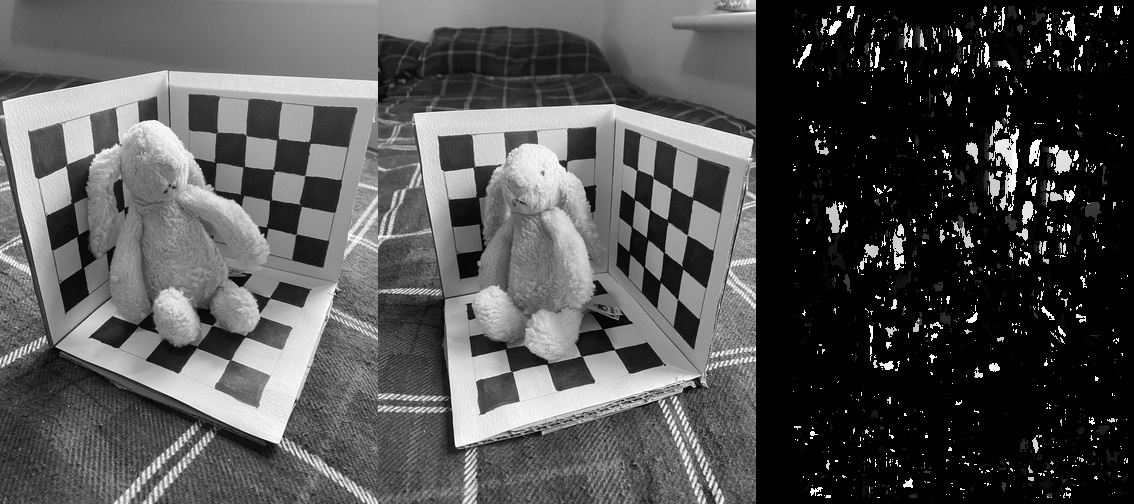
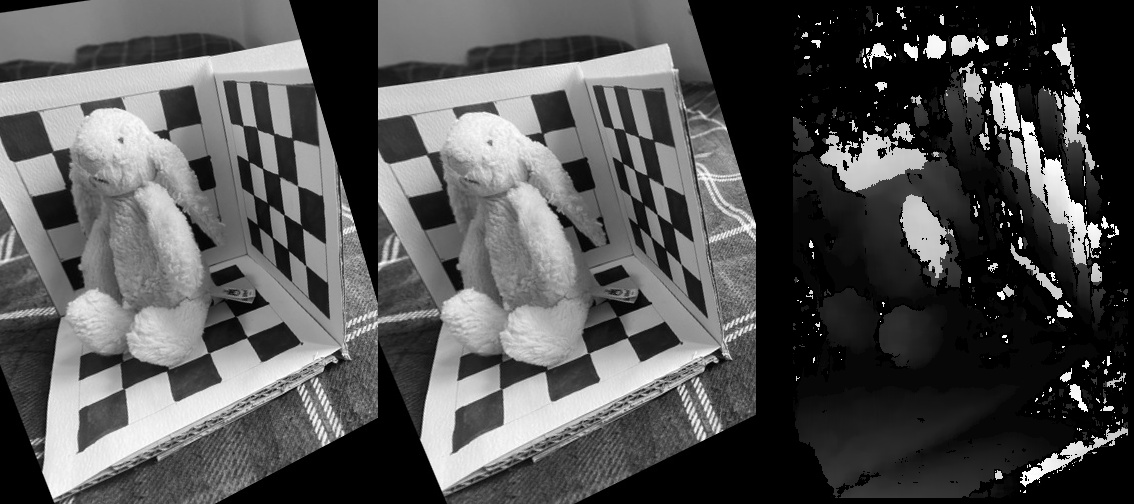
depth maps update

diff --git a/task_5/stereo.py b/task_5/stereo.py
@@ -4,8 +4,8 @@ import matplotlib.pyplot as plt
 
 # Load the left and right images 
 # in gray scale 
-img1_name = '../images/FD_02.jpg'
-img2_name = '../images/FD_05.jpg'
+img1_name = '../images/FD_01.jpg'
+img2_name = '../images/FD_02.jpg'
 
 img1 = cv2.imread(img1_name, 0) 
 img2 = cv2.imread(img2_name, 0)
@@ -51,8 +51,8 @@ _, H1, H2 = cv2.stereoRectifyUncalibrated(
 # Adapted from: https://stackoverflow.com/a/62607343
 img1_rectified = cv2.warpPerspective(img1, H1, (w1, h1))
 img2_rectified = cv2.warpPerspective(img2, H2, (w2, h2))
-cv2.imwrite("rectified_1.png", img1_rectified)
-cv2.imwrite("rectified_2.png", img2_rectified)
+cv2.imwrite("rectified_5.jpg", img1_rectified)
+cv2.imwrite("rectified_6.jpg", img2_rectified)
 
 # Draw the rectified images
 fig, axes = plt.subplots(1, 2, figsize=(15, 10))
@@ -63,5 +63,5 @@ axes[1].axhline(250)
 axes[0].axhline(450)
 axes[1].axhline(450)
 plt.suptitle("Rectified images")
-plt.savefig("rectified_images.png")
+plt.savefig("rectified_images2.jpg")
 plt.show()

diff --git a/task_5/depth_map.py b/task_5/depth_map.py
@@ -3,8 +3,8 @@ import numpy as np
 import cv2
 from matplotlib import pyplot as plt
 
-imgL = cv2.imread('FD_02.jpg',0)
-imgR = cv2.imread('FD_05.jpg',0)
+imgL = cv2.imread('rectified_6.jpg',0)
+imgR = cv2.imread('rectified_5.jpg',0)
 
 # Initialize the stereo block matching object 
 stereo = cv2.StereoBM_create(numDisparities=32, blockSize=13)
@@ -20,6 +20,6 @@ disparity = np.uint8(255 * (disparity - min) / (max - min))
 # Display the result
 cv2.imshow('disparity', np.hstack((imgL, imgR, disparity)))
 cv2.waitKey(0)
-cv2.imwrite('results/depth_map.jpg',np.hstack((imgL, imgR, disparity)))
+cv2.imwrite('results/depth_map3.jpg',np.hstack((imgL, imgR, disparity)))
 cv2.destroyAllWindows()
 
